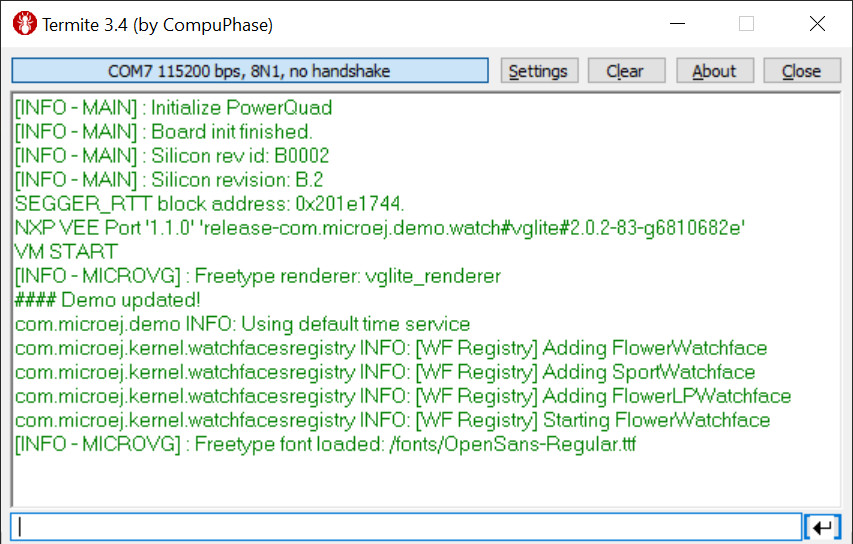
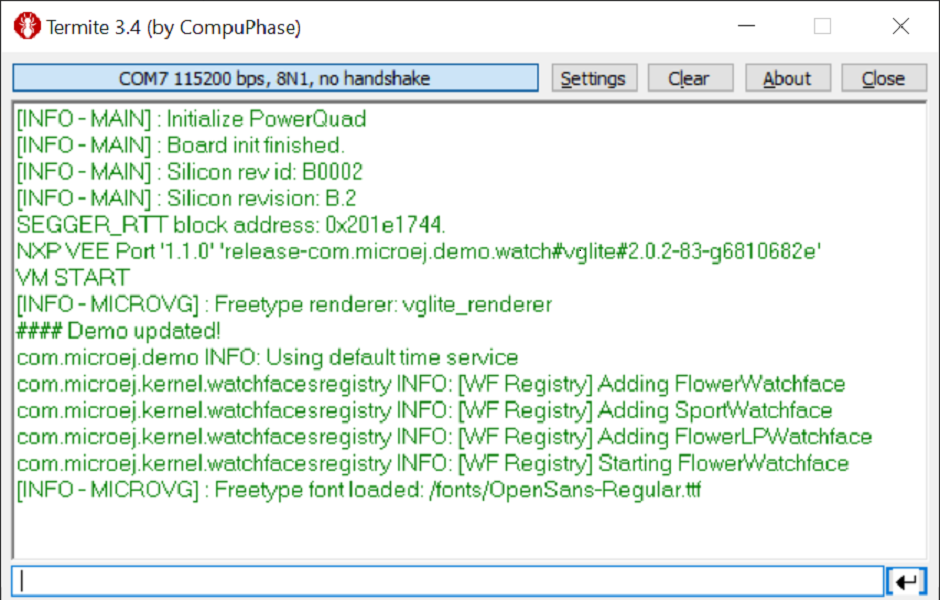
M0306SP-5 Add Demo Picture

diff --git a/SDK6UserGuide/gettingStartedIMXRT595.rst b/SDK6UserGuide/gettingStartedIMXRT595.rst
@@ -253,14 +253,31 @@ In order to flash the ``Demo-Wearable-VG`` Application on i.MX RT595 EVK, the ap
          :align: center
          :scale: 70%
 
-Once the firmware is flashed, you should see the ``Demo-Wearable-VG`` running on your board.
+Once the firmware is flashed, you should see the ``Demo-Wearable-VG`` running on your board.      
 
-      .. figure:: images/getting-started-termite-application-output.png
-         :alt: Termite Application Output
-         :align: center
-         :scale: 70%
-      
-         Application logs on Termite
+.. raw:: html
+
+   <div style="display:block;margin-bottom:24px;">
+      <table>
+         <tr>
+            <td style="width:50%;text-align:center;vertical-align:middle;" alt="Application running on i.MXRT595-EVK">
+               <img src="../_images/getting-started-hardware-demo-running.png">
+            </td>
+            <td style="width:50%;text-align:center;vertical-align:middle;" alt="Termite Application Output">
+               <img src="../_images/getting-started-termite-application-output.png">
+            </td>
+         </tr>
+         <tr>
+            <td style="width:50%;text-align:center;font-size:18px;font-style:italic;">
+               Fig 1. Application running on i.MXRT595-EVK
+            </td>
+            <td style="width:50%;text-align:center;font-size:18px;font-style:italic;">
+               Fig 2. Application logs on Termite
+            </td>
+         </tr>
+      </table>
+   </div>
+
 
 ..
    | Copyright 2008-2023, MicroEJ Corp. Content in this space is free 
